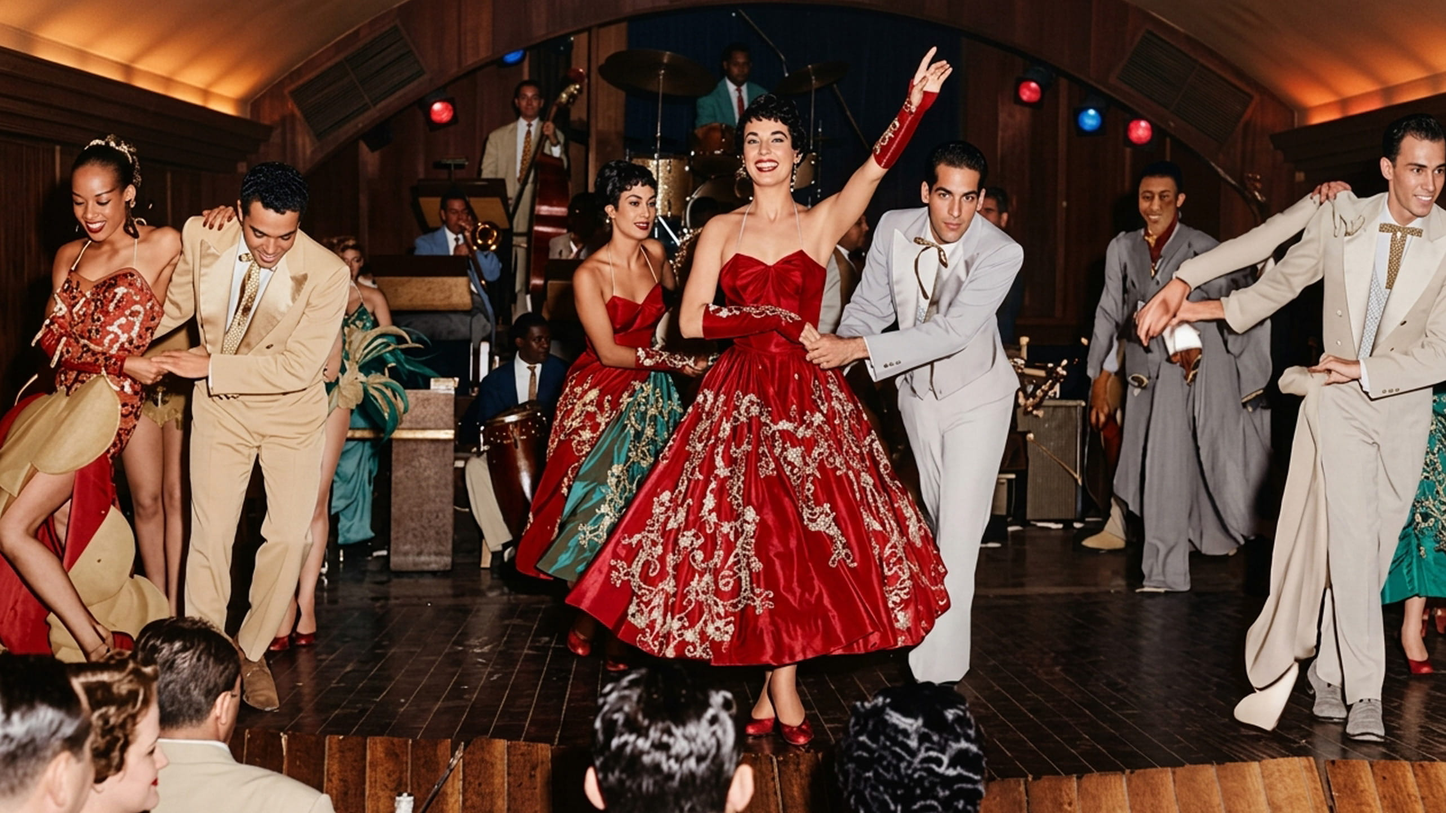
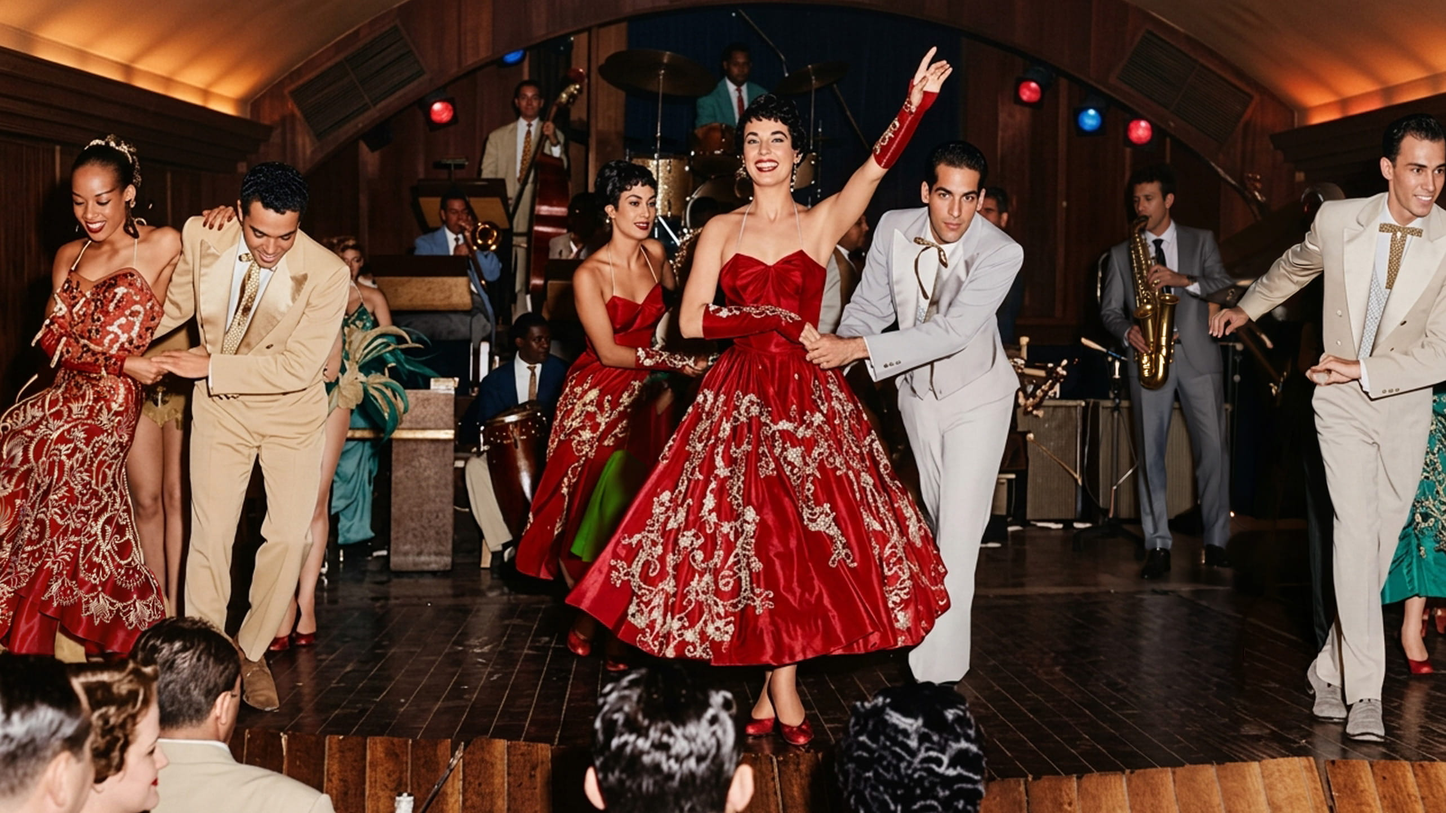
last-data

Changed region(s): [[0.748, 0.2183, 0.9349, 0.9044], [0.0, 0.4366, 0.1247, 0.8108], [0.374, 0.4366, 0.4675, 0.7173]]

diff --git a/app/components/footer.tsx b/app/components/footer.tsx
@@ -46,7 +46,6 @@ export default function Footer() {
       <div className="footer-col">
         <span className="footer-label">Contacto</span>
         <a href="tel:+17866634226">(786) 663-4226</a>
-        <a href="tel:+17867402313">(786) 740-2313</a>
         <a href="tel:+17866634226">(786) 582-1141</a>
       </div>
 
@@ -63,6 +62,10 @@ export default function Footer() {
 
   <div className="footer-bottom">
     <span>© 2026 Cuervo y Sobrino Lepaleis Royale · Todos los derechos reservados</span>
+    <div className="footer-links">
+      <a href="#">Privacy Policy</a>
+      <a href="#">Terms of Use</a>
+    </div>
   </div>
 </footer>
     </>     

diff --git a/app/fashionIntern/[id]/page.tsx b/app/fashionIntern/[id]/page.tsx
@@ -25,7 +25,7 @@ export default function WatchPage() {
     <Header />
       {/* Hero */}
       <section className="relative w-full h-screen overflow-hidden">
-        <img src={collection.backBanner} alt="bg" className="brightness-40 w-full" />
+        <img src={collection.backBanner} alt="bg" className="brightness-40 w-full h-full object-cover" />
         <div className="absolute bottom-16 left-16">
           <h1 className="font-serif text-[clamp(48px,6vw,88px)] font-light text-white leading-none tracking-[-0.01em]">
             {collection.label}

diff --git a/app/jewleryIntern/[id]/page.tsx b/app/jewleryIntern/[id]/page.tsx
@@ -25,7 +25,7 @@ export default function WatchPage() {
     <Header />
       {/* Hero */}
       <section className="relative w-full h-screen overflow-hidden">
-        <img src={collection.backBanner} alt="bg" className="brightness-40 w-full" />
+        <img src={collection.backBanner} alt="bg" className="brightness-40 w-full h-full object-cover" />
         <div className="absolute bottom-16 left-16">
           <h1 className="font-serif text-[clamp(48px,6vw,88px)] font-light text-white leading-none tracking-[-0.01em]">
             {collection.label}

diff --git a/app/watchesIntern/[id]/page.tsx b/app/watchesIntern/[id]/page.tsx
@@ -26,7 +26,7 @@ export default function WatchPage() {
     <Header />
       {/* Hero */}
       <section className="relative w-full h-screen overflow-hidden">
-        <img src={collection.backBanner} alt="bg" className="brightness-40 w-full" />
+        <img src={collection.backBanner} alt="bg" className="brightness-40 w-full h-full object-cover" />
         <div className="absolute bottom-16 left-16">
           <h1 className="font-serif text-[clamp(48px,6vw,88px)] font-light text-white leading-none tracking-[-0.01em]">
             {collection.label}

diff --git a/app/globals.css b/app/globals.css
@@ -207,10 +207,18 @@
 .footer-bottom {
   width: 100%;
   text-align: center;
+  display: flex;
+  justify-content: center;
+  gap: 20px;
   border-top: .5px solid #c9a84c1f;
   padding: 1.5rem 3rem;
 }
-
+.footer-links {
+  font-size: 11px;
+  display: flex;
+  gap: 10px;
+  color: rgba(245, 240, 230, 0.55);
+}
 .footer-bottom span {
   font-size: 11px;
   letter-spacing: 0.1em;
